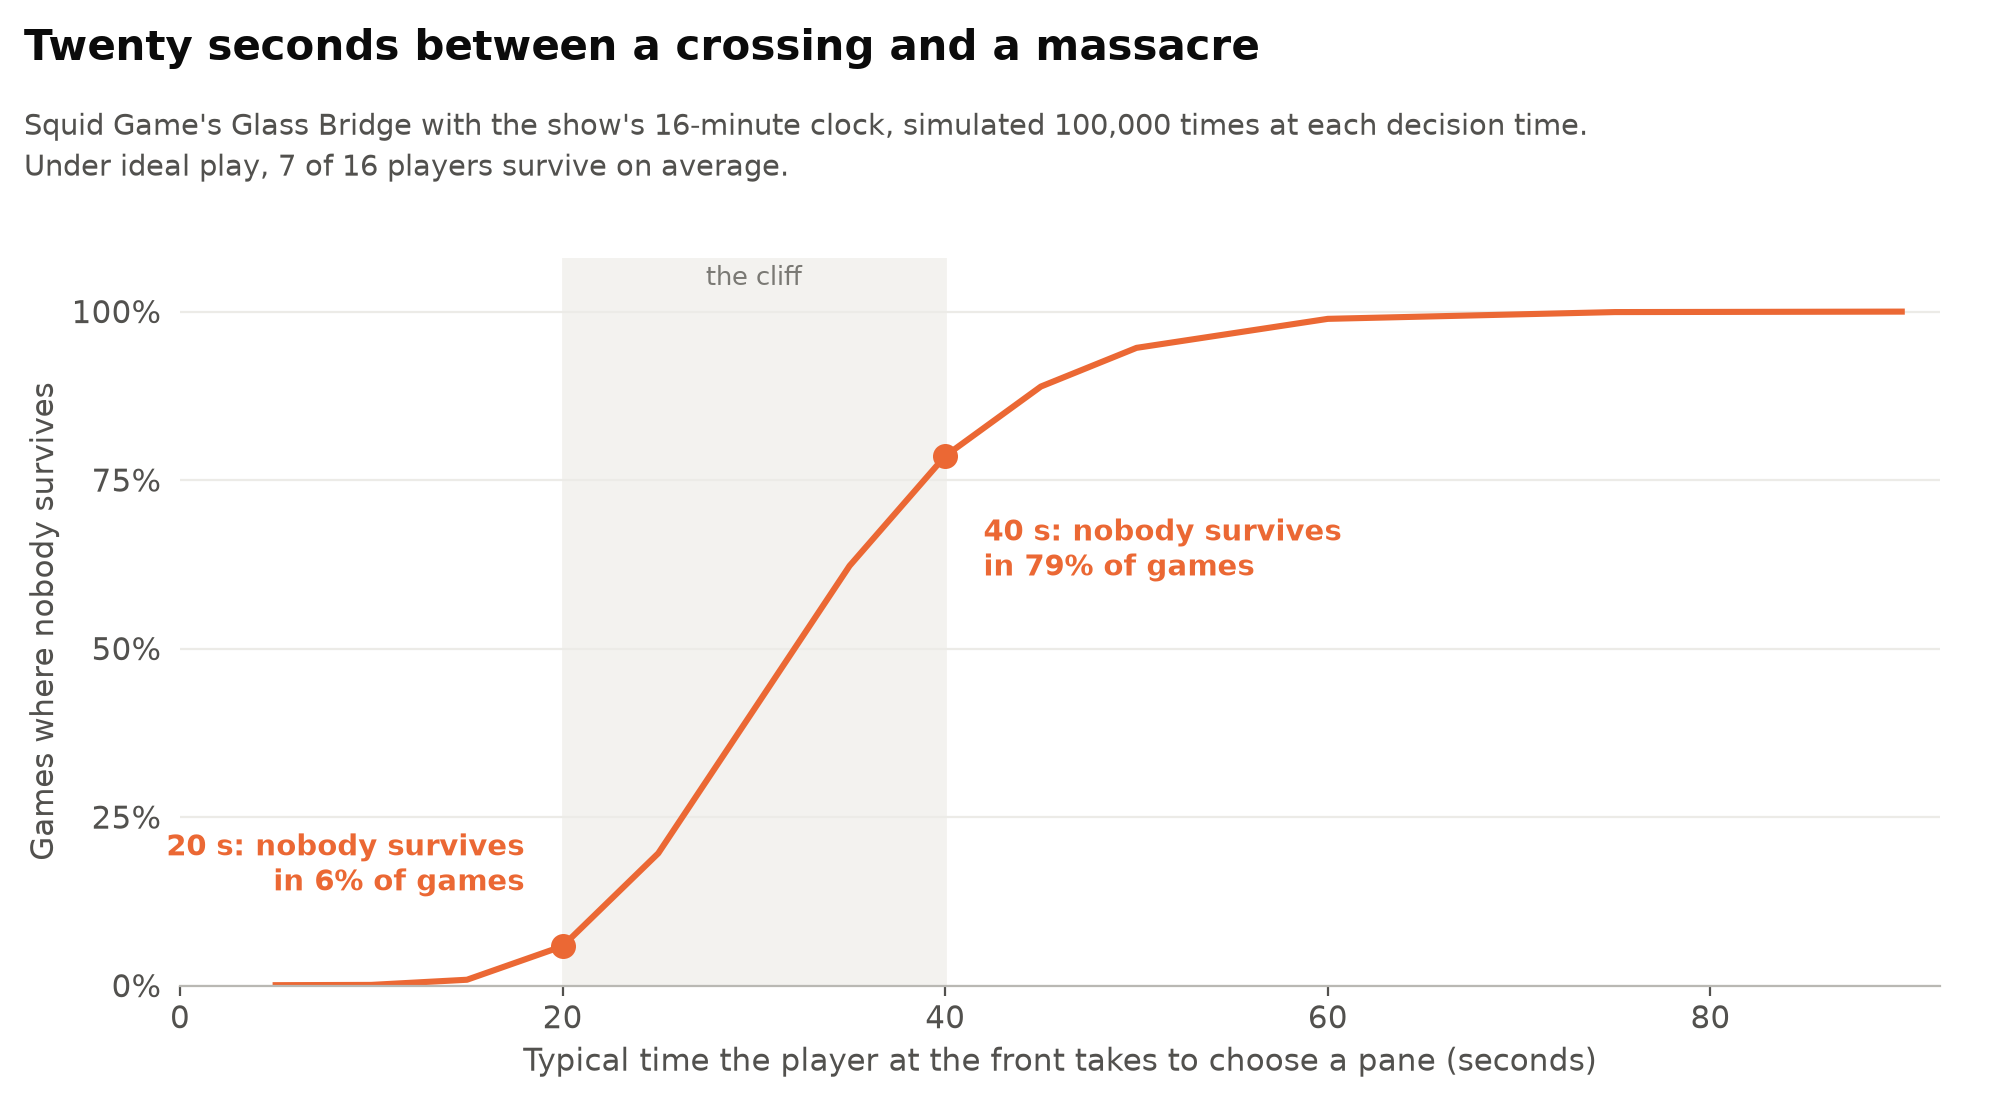
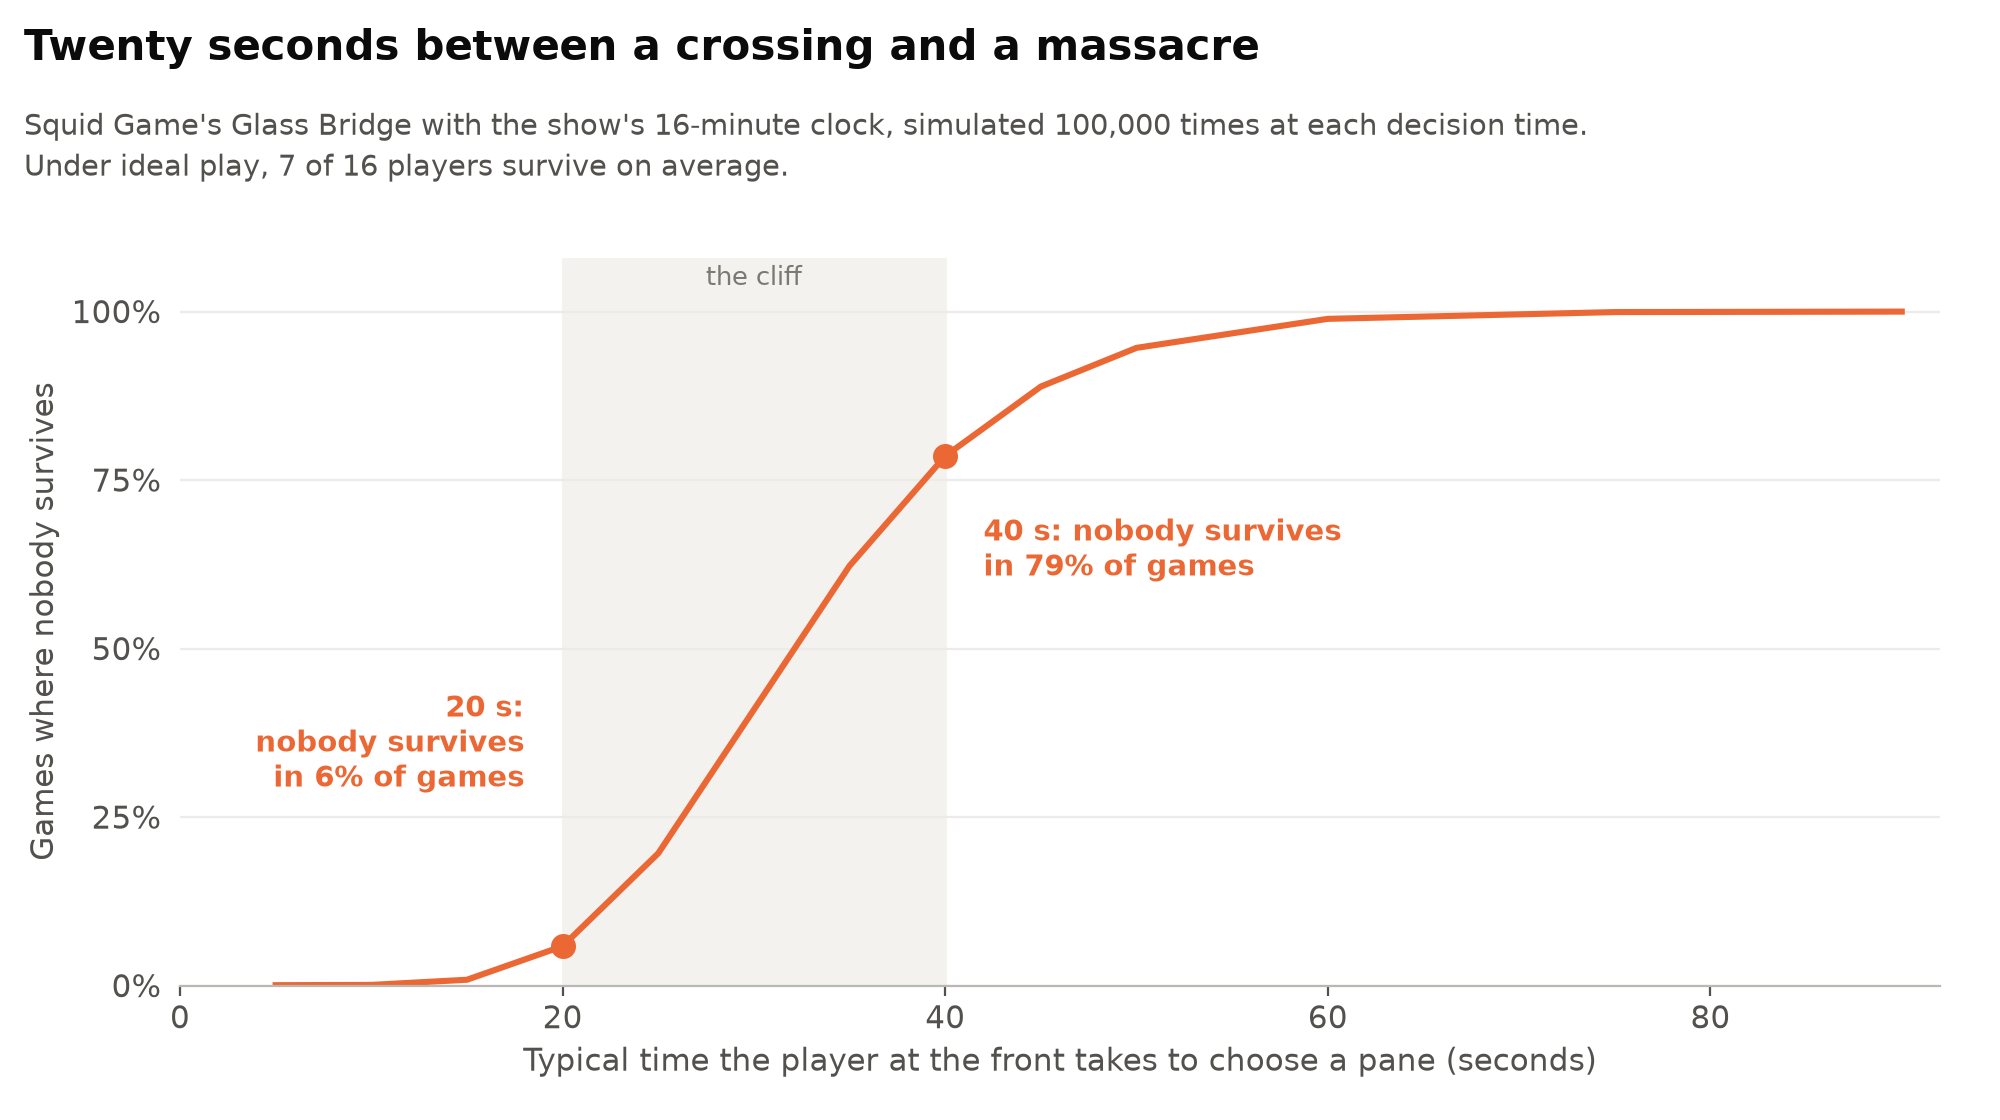
Article (phone-readable) figure versions; README: articles line replaces the private notice

Changed region(s): [[0.124, 0.625, 0.279, 0.7188], [0.093, 0.75, 0.279, 0.8125]]

diff --git a/src/glass_bridge/figures.py b/src/glass_bridge/figures.py
@@ -10,6 +10,7 @@ and the key point is annotated on the chart.
 from __future__ import annotations
 
 import csv
+import textwrap
 from pathlib import Path
 
 import matplotlib
@@ -64,9 +65,9 @@ def cost_per_pusher(rows: list[dict], **where) -> float:
 def headline(fig, title: str, subtitle: str, source: str) -> None:
     """Title and subtitle on the image. The source note stays off the image (article version)
     and goes to figures/SOURCES.md, so every figure still traces to its results file."""
-    fig.text(0.012, 0.975, title, ha="left", va="top", fontsize=15, fontweight="bold", color=INK)
-    fig.text(0.012, 0.905, subtitle, ha="left", va="top", fontsize=10.5, color=INK_2, linespacing=1.4)
-    fig.gb_title, fig.gb_source = title, source
+    t = fig.text(0.012, 0.975, title, ha="left", va="top", fontsize=15, fontweight="bold", color=INK)
+    sub = fig.text(0.012, 0.905, subtitle, ha="left", va="top", fontsize=10.5, color=INK_2, linespacing=1.4)
+    fig.gb_title, fig.gb_source, fig.gb_header = title, source, (t, sub)
 
 
 def end_labels(ax, items: list[tuple[float, float, str, str]], min_gap: float, dx: float) -> None:
@@ -300,26 +301,32 @@ def fig_clock(results: Path):
     return fig
 
 
-def fig_distribution_hesitation(results: Path):
-    """Article 1 version (D19): one model of hesitation, constant all game (E9), at the show's clock."""
+def fig_distribution_hesitation(results: Path, stacked: bool = False):
+    """Article 1 version (D19): one model of hesitation, constant all game (E9), at the show's clock.
+    stacked=True puts the three panels in a column (article version, for phones)."""
     rows = load("E9_clock_x_decision_time", results)
     k = np.arange(N_PLAYERS + 1)
     delays = (15, 20, 40)
-    fig, axes = plt.subplots(1, 3, figsize=(12, 5.2), sharey=True)
+    if stacked:
+        fig, axes = plt.subplots(3, 1, figsize=(7.2, 9.0), sharex=True, sharey=True)
+    else:
+        fig, axes = plt.subplots(1, 3, figsize=(12, 5.2), sharey=True)
     for ax, d in zip(axes, delays):
         r = one(rows, d0=float(d), clock=SHOW_CLOCK)
         p = np.array([r[f"p_{i}_survivors"] for i in k]) * 100
         slow = d == delays[-1]
         ax.bar(k, p, width=0.75, color=[ORANGE if (slow and i == 0) else GRAY_LIGHT for i in k])
-        ax.set_title(f"{d} seconds per decision\n{r['mean_survivors']:.1f} survivors on average", loc="left",
+        sep = ": " if stacked else "\n"
+        ax.set_title(f"{d} seconds per decision{sep}{r['mean_survivors']:.1f} survivors on average", loc="left",
                      color=ORANGE if slow else INK, linespacing=1.4)
         ax.set_xticks([0, 3, 7, 10, 16])
-        ax.set_xlabel("Survivors in one game")
+        if not stacked or slow:
+            ax.set_xlabel("Survivors in one game")
         if slow:
             ax.annotate(f"nobody survives\nin {p[0]:.0f}% of games", (0.5, p[0] * 0.95), xytext=(3, p[0] * 0.8),
                         fontsize=9.5, color=ORANGE, fontweight="bold", va="top")
     axes[0].set_yticks([0, 20, 40, 60, 80], ["0%", "20%", "40%", "60%", "80%"])
-    axes[0].set_ylabel("Share of games")
+    axes[1 if stacked else 0].set_ylabel("Share of games")
     r20 = one(rows, d0=20.0, clock=SHOW_CLOCK)
     headline(fig, "Slow down, and the whole group dies",
              f"At 20 seconds per decision, nobody survives in {r20['p_0_survivors']:.0%} of games. Double it, and "
@@ -327,7 +334,10 @@ def fig_distribution_hesitation(results: Path):
              "it wipes out whole games.",
              "16-minute clock, no pushers; the leader's typical (median) decision time stays the same all game. "
              "100,000 games each. Results: E9_clock_x_decision_time.csv")
-    fig.subplots_adjust(left=0.07, right=0.98, bottom=0.14, top=0.67, wspace=0.08)
+    if stacked:
+        fig.subplots_adjust(left=0.12, right=0.97, bottom=0.07, top=0.8, hspace=0.45)
+    else:
+        fig.subplots_adjust(left=0.07, right=0.98, bottom=0.14, top=0.67, wspace=0.08)
     return fig
 
 
@@ -429,10 +439,11 @@ def fig_cliff(results: Path):
     fig, ax = plt.subplots(figsize=(10, 5.6))
     ax.axvspan(20, 40, color=BAND, zorder=0)
     ax.plot(d0s, p0, color=ORANGE)
-    for d, dy, ha in ((20, 12, "right"), (40, -14, "left")):
+    for d, dy, ha in ((20, 30, "right"), (40, -14, "left")):
         p = p0[list(d0s).index(d)]
         ax.plot([d], [p], "o", color=ORANGE, markersize=8)
-        ax.annotate(f"{d} s: nobody survives\nin {p:.0f}% of games", (d, p), xytext=(d + (-2 if ha == "right" else 2), p + dy),
+        text = f"{d} s:\nnobody survives\nin {p:.0f}% of games" if ha == "right" else f"{d} s: nobody survives\nin {p:.0f}% of games"
+        ax.annotate(text, (d, p), xytext=(d + (-2 if ha == "right" else 2), p + dy),
                     ha=ha, va="center", fontsize=10.5, color=ORANGE, fontweight="bold")
     ax.text(30, 103, "the cliff", ha="center", va="bottom", fontsize=9.5, color=GRAY)
     ax.set_xlim(0, 92)
@@ -511,6 +522,56 @@ def main(results: str | Path = "results", out: str | Path = "figures") -> None:
         plt.close(fig)
         print(out / f"{name}.png")
     (out / "SOURCES.md").write_text("\n".join(notes) + "\n", encoding="utf-8")
+    article(results, out / "article")
+
+
+# Article versions: the same figure on a smaller canvas with the same font sizes, so text stays
+# readable when Medium scales the image to its column (and to a phone screen).
+ARTICLE = {  # name: (canvas scale, extra arguments)
+    "fig10_cliff": (0.72, {}),
+    "fig1_baseline": (0.72, {}),
+    "fig6_distribution": (1.0, {"stacked": True}),
+    "fig8_wipeout_map": (0.78, {}),
+}
+
+
+def wrap(text: str, width_in: float, fontsize: float) -> str:
+    chars = max(20, int(width_in * 72 / (fontsize * 0.55)))
+    return "\n".join(textwrap.wrap(" ".join(text.split()), chars))
+
+
+def fit_header(fig) -> None:
+    """Re-wrap title and subtitle to the canvas width and move the plots down below them."""
+    w, h = fig.get_size_inches()
+    title, sub = fig.gb_header
+    title.set_text(wrap(title.get_text(), w * 0.97, 15))
+    sub.set_text(wrap(sub.get_text(), w * 0.97, 10.5))
+    n_title, n_sub = title.get_text().count("\n") + 1, sub.get_text().count("\n") + 1
+    top_in = 0.12
+    title.set_y(1 - top_in / h)
+    sub_in = top_in + n_title * 15 * 1.25 / 72 + 0.08
+    sub.set_y(1 - sub_in / h)
+    header_in = sub_in + n_sub * 10.5 * 1.45 / 72 + 0.45  # room for panel titles below the header
+    axes = [ax for ax in fig.axes if ax.get_label() != "<colorbar>"]
+    bottom = min(ax.get_position().y0 for ax in axes)
+    old_top = max(ax.get_position().y1 for ax in axes)
+    new_top = min(old_top, 1 - header_in / h)
+    k = (new_top - bottom) / (old_top - bottom)
+    for ax in fig.axes:
+        b = ax.get_position()
+        ax.set_position([b.x0, bottom + (b.y0 - bottom) * k, b.width, b.height * k])
+
+
+def article(results: Path, out: Path) -> None:
+    out.mkdir(parents=True, exist_ok=True)
+    for name, (scale, kwargs) in ARTICLE.items():
+        fig = FIGURES[name](results, **kwargs)
+        w, h = fig.get_size_inches()
+        fig.set_size_inches(w * scale, h * scale)
+        fit_header(fig)
+        fig.savefig(out / f"{name}.png", dpi=250, bbox_inches="tight", pad_inches=0.15)
+        plt.close(fig)
+        print(out / f"{name}.png")
 
 
 if __name__ == "__main__":

diff --git a/README.md b/README.md
@@ -3,7 +3,7 @@
 A Monte Carlo simulator of the Glass Stepping Stones game from *Squid Game*, built to answer a question:
 **the math says ~7 of 16 players survive. In the show, 3 do. How much does being human cost?**
 
-> Work in progress. Private until the first article is published.
+**Articles:** *The Deadliest Thing in Squid Game Wasn't the Glass. It Was Hesitation.* [link added on publication]
 
 **How it works, in full:** [METHODOLOGY.md](METHODOLOGY.md) (the model, hesitation and pushing rules, random
 numbers, validation, every experiment and output column, limitations).
@@ -77,7 +77,7 @@ src/glass_bridge/
 METHODOLOGY.md    the model and experiments in full
 configs/          one TOML file per experiment
 results/          sweep summaries (CSV) and provenance (JSON)
-figures/          article figures (PNG)
+figures/          figures (PNG); figures/article/ holds the phone-readable versions used in the articles
 tests/            exact-odds validation, rule checks, reproducibility
 ```
 
